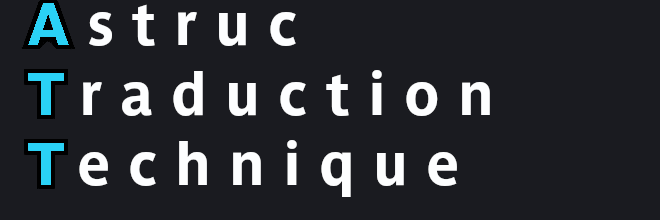
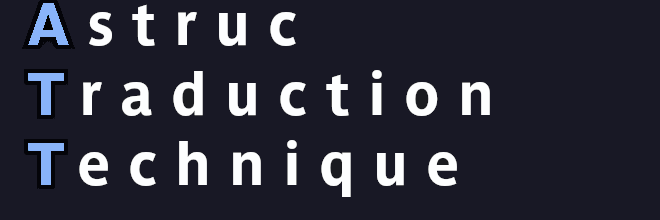
Addition de la marque

Changed region(s): [[0.0303, 0.0, 0.1212, 0.2182], [0.0303, 0.6273, 0.1212, 0.8455], [0.0303, 0.3273, 0.1212, 0.5182]]

diff --git a/contact.html b/contact.html
@@ -9,7 +9,7 @@
     <div class="table">
     <header>
       <div class="bandeau">
-        <img class="logo" src="contenu/fav.jpg" alt="logoatt">
+        <img class="logo" src="contenu/fav.png" alt="logoatt">
           <p class="antoine">Antoine Astruc</p>
         <p class="present">Traducteur, réviseur, localisateur technique indépendant. Mes domaines de spécialité sont la physique, l'informatique et les sujets scientifiques dans leur ensemble.</p>
           <div class="reseaux">

diff --git a/index.html b/index.html
@@ -9,7 +9,7 @@
     <div class="table">
     <header>
       <div class="bandeau">
-        <img class="logo" src="contenu/fav.jpg" alt="logoatt">
+        <img class="logo" src="contenu/fav.png" alt="logoatt">
           <p class="antoine">Antoine Astruc</p>
         <p class="present">Traducteur, réviseur, localisateur technique indépendant. Mes domaines de spécialité sont la physique, l'informatique et les sujets scientifiques dans leur ensemble.</p>
           <div class="reseaux">

diff --git a/me.html b/me.html
@@ -9,7 +9,7 @@
     <div class="table">
     <header>
       <div class="bandeau">
-        <img class="logo" src="contenu/fav.jpg" alt="logoatt">
+        <img class="logo" src="contenu/fav.png" alt="logoatt">
           <p class="antoine">Antoine Astruc</p>
         <p class="present">Traducteur, réviseur, localisateur technique indépendant. Mes domaines de spécialité sont la physique, l'informatique et les sujets scientifiques dans leur ensemble.</p>
           <div class="reseaux">

diff --git a/services.html b/services.html
@@ -9,7 +9,7 @@
     <div class="table">
     <header>
       <div class="bandeau">
-        <img class="logo" src="contenu/fav.jpg" alt="logoatt">
+        <img class="logo" src="contenu/fav.png" alt="logoatt">
           <p class="antoine">Antoine Astruc</p>
         <p class="present">Traducteur, réviseur, localisateur technique indépendant. Mes domaines de spécialité sont la physique, l'informatique et les sujets scientifiques dans leur ensemble.</p>
           <div class="reseaux">

diff --git a/style.css b/style.css
@@ -1,6 +1,6 @@
 body
 {
-    background-color: #1A1B20
+    background-color: #181825
 }
 .antoine
 {
@@ -39,8 +39,8 @@ body
 
 .logo
 {
-    max-height: 220px;
-    width: 220px;
+    max-height: 280px;
+    width: 280px;
 }
 .marque
 {
@@ -55,7 +55,7 @@ body
     display: flex;
     flex-direction: column;
     margin-left: 30px;
-    width: 220px;
+    width: 280px;
 }
 .present
 {
